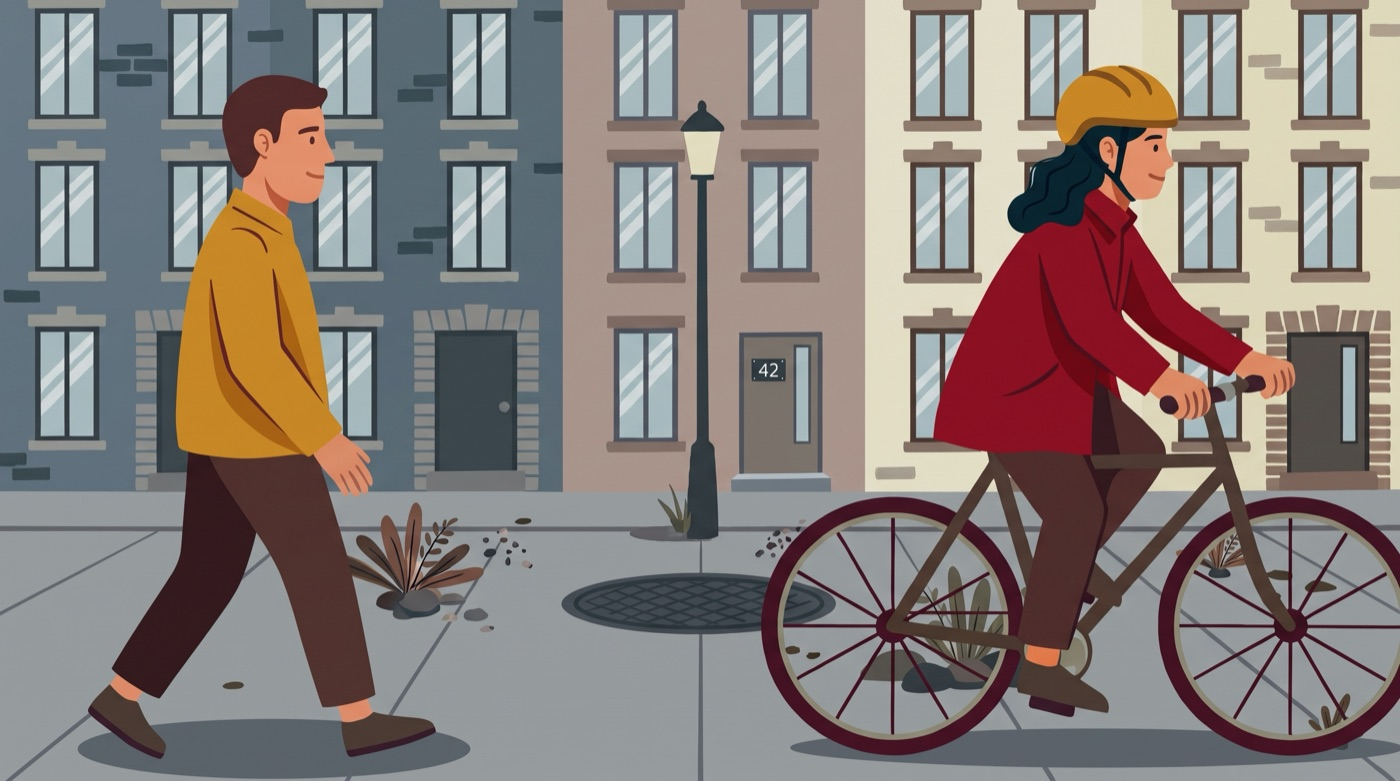
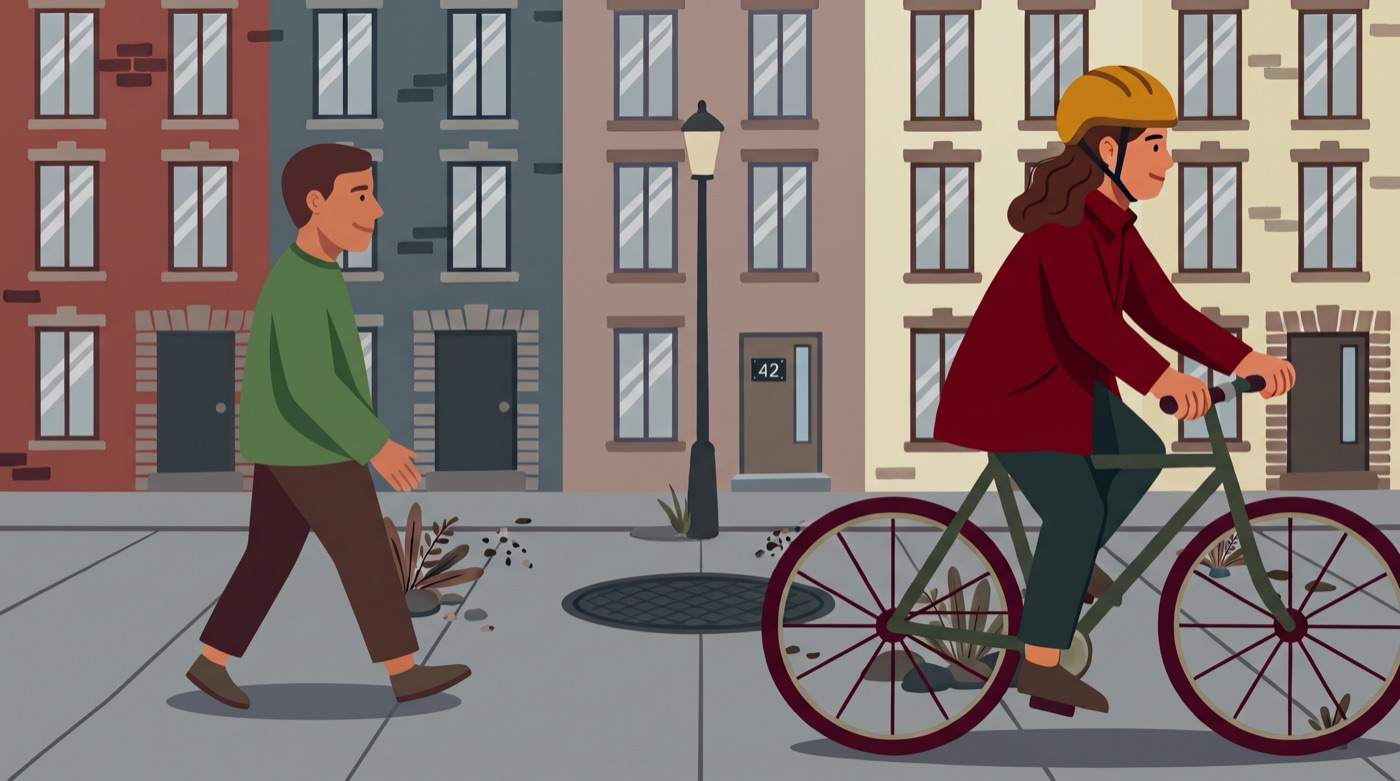
finished illustrations in about page

diff --git a/src/routes/about/SectionArt.svelte b/src/routes/about/SectionArt.svelte
@@ -1,37 +1,17 @@
 <script lang="ts">
-	// Illustrations for the narrative sections on the about page.
-	// Photographic illustrations (JPEG) for transit and walk are in
-	// static/illustration/; car still uses the SVG placeholder until a
-	// final asset lands.
+	// Photographic illustrations for the narrative sections on the
+	// about page. Files in static/illustration/.
 	let { kind }: { kind: 'transit' | 'walk' | 'car' } = $props();
+
+	const src = {
+		transit: '/illustration/train.jpeg',
+		walk: '/illustration/walk_cycle.jpeg',
+		car: '/illustration/car_infrastructure.jpeg'
+	}[kind];
 </script>
 
 <div class="art" aria-hidden="true">
-	{#if kind === 'transit'}
-		<img src="/illustration/train.jpeg" alt="" />
-	{:else if kind === 'walk'}
-		<img src="/illustration/walk_cycle.jpeg" alt="" />
-	{:else}
-		<svg viewBox="0 0 180 120" role="img">
-			<!-- highway interchange placeholder: cloverleaf in muted gray -->
-			<g fill="none" stroke="#9aa097" stroke-linecap="round">
-				<line x1="0" y1="60" x2="180" y2="60" stroke-width="15" stroke-linecap="butt" />
-				<line x1="90" y1="0" x2="90" y2="120" stroke-width="15" stroke-linecap="butt" />
-				<g stroke-width="6.5">
-					<path d="M 108 52 Q 108 40 98 40" />
-					<path d="M 108 68 Q 108 80 98 80" />
-					<path d="M 72 68 Q 72 80 82 80" />
-					<path d="M 72 52 Q 72 40 82 40" />
-				</g>
-				<g stroke-width="6">
-					<path d="M 98 27 A 25 25 0 1 1 123 52" />
-					<path d="M 98 93 A 25 25 0 1 0 123 68" />
-					<path d="M 82 93 A 25 25 0 1 1 57 68" />
-					<path d="M 82 27 A 25 25 0 1 0 57 52" />
-				</g>
-			</g>
-		</svg>
-	{/if}
+	<img {src} alt="" />
 </div>
 
 <style>
@@ -42,8 +22,7 @@
 		overflow: hidden;
 		background: #efe7d6;
 	}
-	.art img,
-	.art svg {
+	.art img {
 		display: block;
 		width: 100%;
 		height: 100%;
